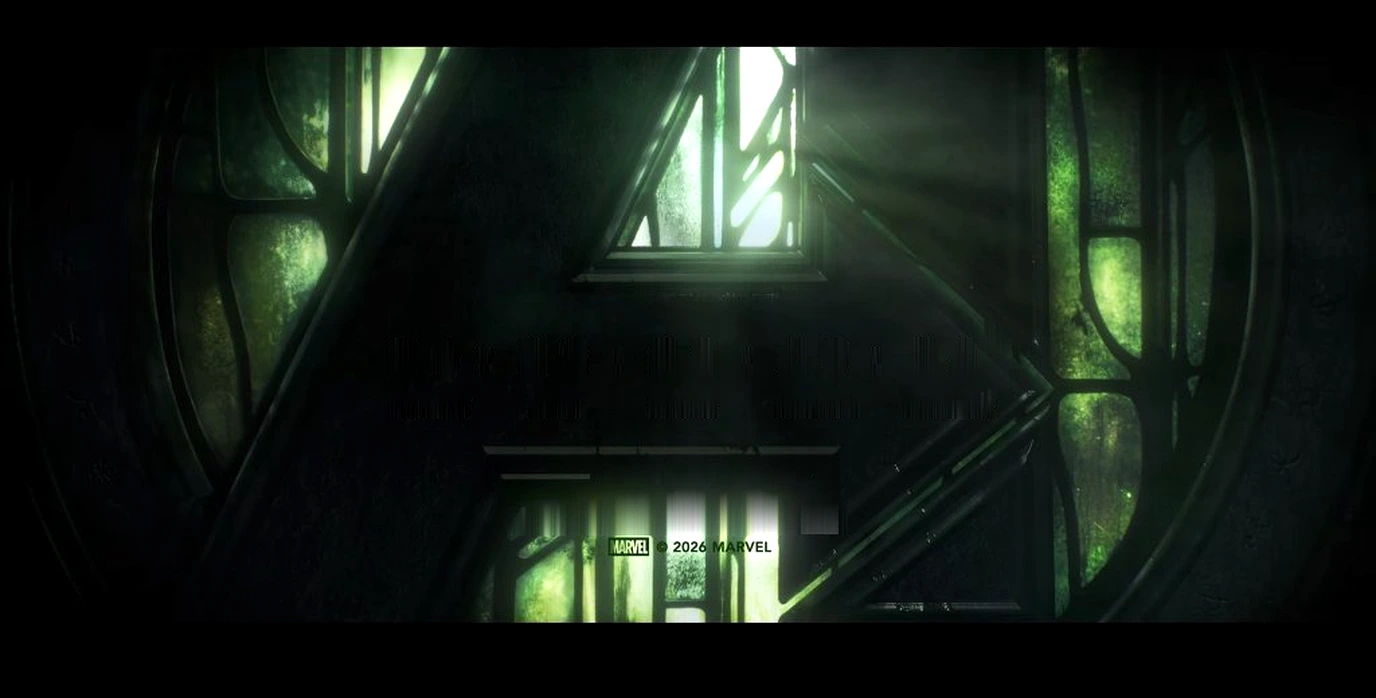
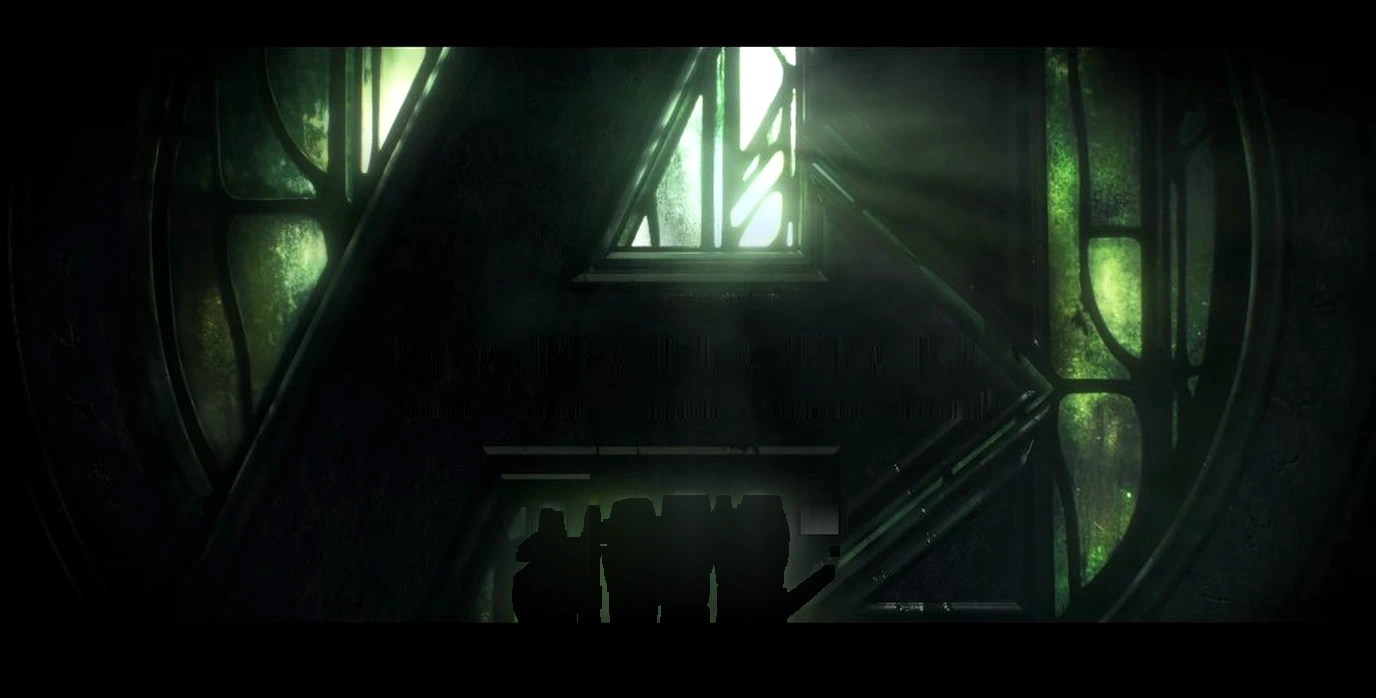
fix(ui): clean up finale countdown, remove pulse badge & embedded marvel text, and fix eyebrow visibility

Changed region(s): [[0.375, 0.692, 0.625, 0.9026]]

diff --git a/app/globals.css b/app/globals.css
@@ -2024,16 +2024,20 @@ header b {
 }
 
 .end-tease-eyebrow {
-  color: var(--accent);
-  font: 700 clamp(11px, 1.1vw, 14px)/1.2 var(--sans);
-  letter-spacing: 0.38em;
+  display: block;
+  color: #bbf7d0;
+  font: 700 clamp(13px, 1.35vw, 17px)/1.4 var(--sans);
+  letter-spacing: 0.36em;
   text-transform: uppercase;
-  text-shadow: 0 0 18px rgba(63, 224, 142, 0.6);
-  margin-bottom: 8px;
+  text-shadow:
+    0 0 20px rgba(63, 224, 142, 0.8),
+    0 2px 8px rgba(0, 0, 0, 0.95);
+  margin-bottom: clamp(14px, 2vh, 20px);
 }
 
 .end-tease-title {
-  font: italic 400 clamp(28px, 4.4vw, 58px)/1.04 var(--serif);
+  display: block;
+  font: italic 400 clamp(28px, 4.4vw, 58px)/1.18 var(--serif);
   letter-spacing: 0.03em;
   text-transform: uppercase;
   color: #f7faf7;
@@ -2627,22 +2631,16 @@ header b {
   }
 
   .end-tease-eyebrow {
-    font-size: 10px;
-    letter-spacing: 0.26em;
-    margin-bottom: 6px;
+    font-size: 11px;
+    letter-spacing: 0.28em;
+    margin-bottom: 10px;
+    line-height: 1.35;
   }
 
   .end-tease-title {
     max-width: 95%;
     font-size: clamp(24px, 6.8vw, 36px);
-    line-height: 1.08;
-  }
-
-  .countdown-pulse-badge {
-    padding: 5px 12px;
-    font-size: 8.5px;
-    letter-spacing: 0.18em;
-    margin-bottom: 14px;
+    line-height: 1.15;
   }
 
   .avengers-digits-row {

diff --git a/components/DoomsdayCountdown.tsx b/components/DoomsdayCountdown.tsx
@@ -52,11 +52,6 @@ export default function DoomsdayCountdown() {
 
   return (
     <div className="avengers-countdown" aria-label="Countdown to Incursion on 30 January 2027">
-      <div className="countdown-pulse-badge">
-        <span className="countdown-dot" aria-hidden="true" />
-        <span>DOOMSDAY CLOCK IS TICKING</span>
-      </div>
-
       <div className="avengers-digits-row" suppressHydrationWarning>
         <div className="avengers-unit">
           <span className="avengers-num">{timeLeft.months}</span>
@@ -84,15 +79,14 @@ export default function DoomsdayCountdown() {
         </div>
       </div>
 
-      {/* Authentic Marvel Theatrical Billing / Rating Block */}
+      {/* Theatrical Billing Block */}
       <div className="avengers-billing-box">
         <div className="billing-top">
           <span>REGISTRATION OPENS · 30 JANUARY 2027</span>
         </div>
         <div className="billing-divider" />
         <div className="billing-bottom">
-          <span className="billing-marvel-tag">MARVEL</span>
-          <span className="billing-copyright">GDG ON CAMPUS · DYPIT PUNE · INCURSION 1.0</span>
+          <span>GDG ON CAMPUS · DYPIT PUNE · INCURSION 1.0</span>
         </div>
       </div>
     </div>
